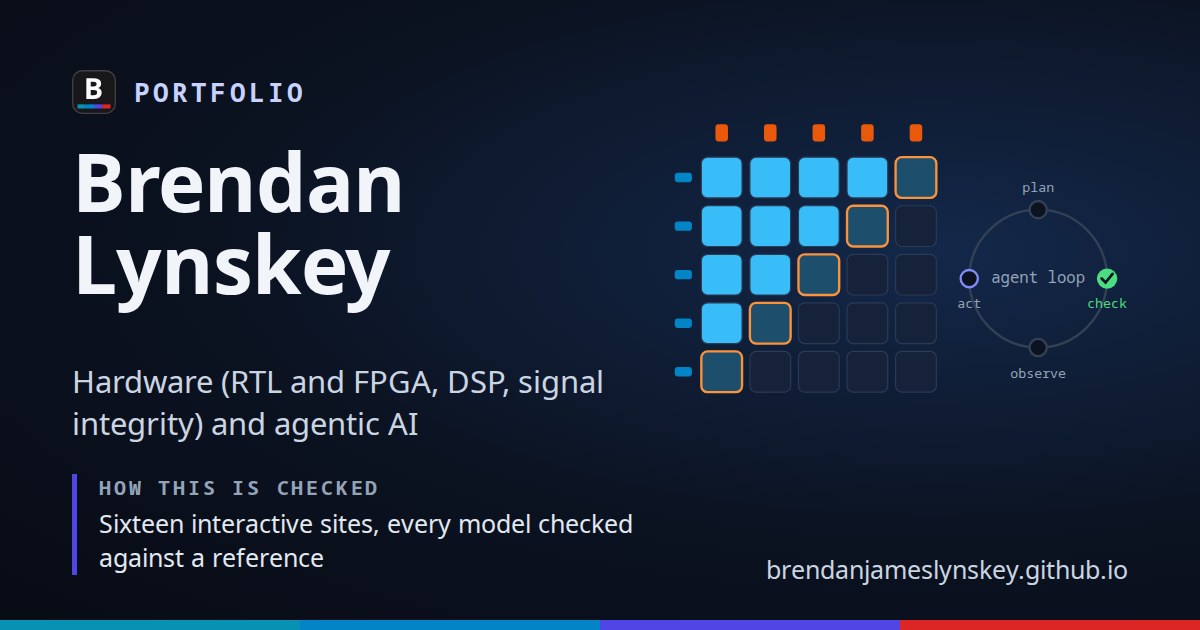
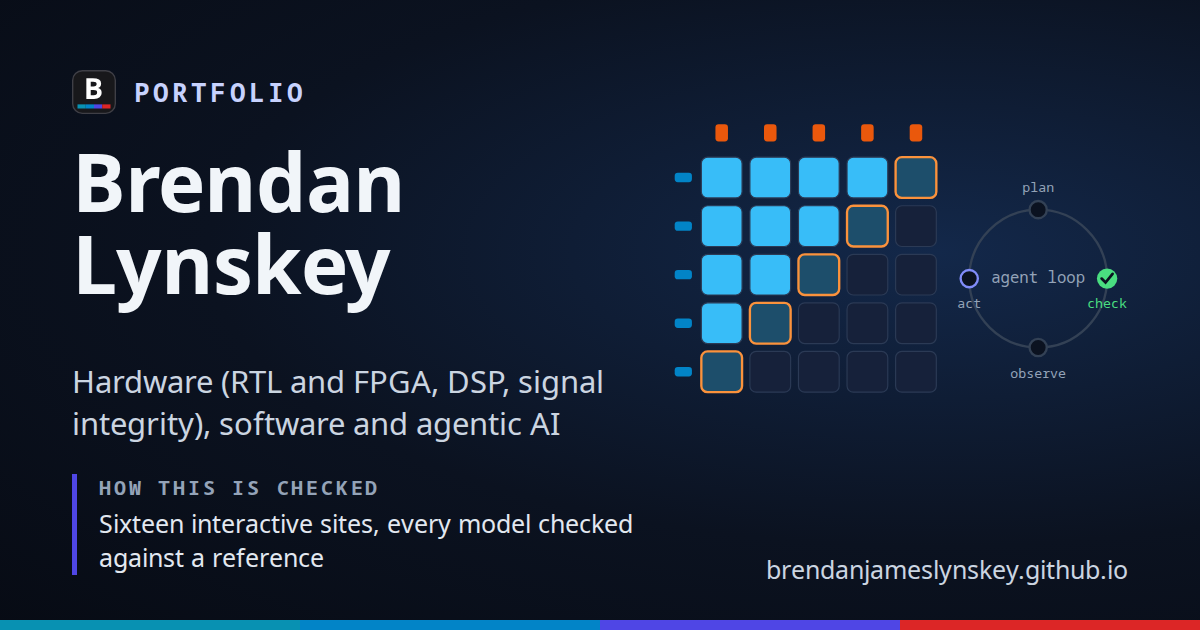
Social card, home title and metadata: hardware, software and agentic AI
The headline gained 'software'; the link-preview card (og.png), the page title, eyebrow,
description and og:image:alt now match it. The profile README is regenerated from
tools/profile_readme.py.

Changed region(s): [[0.1542, 0.6635, 0.4625, 0.6937]]

diff --git a/index.html b/index.html
@@ -3,8 +3,8 @@
 <head>
 <meta charset="utf-8">
 <meta name="viewport" content="width=device-width, initial-scale=1">
-<title>Brendan Lynskey: hardware and agentic AI</title>
-<meta name="description" content="Brendan Lynskey: a staff-level engineer across hardware (RTL and FPGA, DSP, signal integrity) and agentic AI. His CV, a chat agent about his career, and a portfolio of explainer sites and deck series built for his own learning.">
+<title>Brendan Lynskey: hardware, software and agentic AI</title>
+<meta name="description" content="Brendan Lynskey: a staff-level engineer across hardware (RTL and FPGA, DSP, signal integrity), software and agentic AI. His CV, a chat agent about his career, and a portfolio of explainer sites and deck series built for his own learning.">
 <link rel="canonical" href="https://brendan-lynskey.vercel.app/">
 <link rel="icon" href="/favicon.svg" type="image/svg+xml">
 <link rel="apple-touch-icon" href="/apple-touch-icon.png">
@@ -12,17 +12,17 @@
 <meta name="theme-color" content="#0a0a0a" media="(prefers-color-scheme: dark)">
 <meta property="og:type" content="website">
 <meta property="og:site_name" content="Brendan Lynskey">
-<meta property="og:title" content="Brendan Lynskey: hardware and agentic AI">
-<meta property="og:description" content="Brendan Lynskey: a staff-level engineer across hardware (RTL and FPGA, DSP, signal integrity) and agentic AI. His CV, a chat agent about his career, and a portfolio of explainer sites and deck series built for his own learning.">
+<meta property="og:title" content="Brendan Lynskey: hardware, software and agentic AI">
+<meta property="og:description" content="Brendan Lynskey: a staff-level engineer across hardware (RTL and FPGA, DSP, signal integrity), software and agentic AI. His CV, a chat agent about his career, and a portfolio of explainer sites and deck series built for his own learning.">
 <meta property="og:url" content="https://brendan-lynskey.vercel.app/">
 <meta property="og:image" content="https://brendan-lynskey.vercel.app/og.png">
 <meta property="og:image:width" content="1200">
 <meta property="og:image:height" content="630">
-<meta property="og:image:alt" content="Brendan Lynskey: hardware and agentic AI. Sixteen interactive sites, each checked against a reference.">
+<meta property="og:image:alt" content="Brendan Lynskey: hardware, software and agentic AI. Sixteen interactive sites, each checked against a reference.">
 <meta property="og:locale" content="en_GB">
 <meta name="twitter:card" content="summary_large_image">
-<meta name="twitter:title" content="Brendan Lynskey: hardware and agentic AI">
-<meta name="twitter:description" content="Brendan Lynskey: a staff-level engineer across hardware (RTL and FPGA, DSP, signal integrity) and agentic AI. His CV, a chat agent about his career, and a portfolio of explainer sites and deck series built for his own learning.">
+<meta name="twitter:title" content="Brendan Lynskey: hardware, software and agentic AI">
+<meta name="twitter:description" content="Brendan Lynskey: a staff-level engineer across hardware (RTL and FPGA, DSP, signal integrity), software and agentic AI. His CV, a chat agent about his career, and a portfolio of explainer sites and deck series built for his own learning.">
 <meta name="twitter:image" content="https://brendan-lynskey.vercel.app/og.png">
 <style>:root{color-scheme:light dark;
  --bg:#ffffff;--surface:#fafafa;--raised:#ffffff;--border:#e5e5e5;--text:#171717;--muted:#525252;--faint:#6b6b6b;
@@ -255,7 +255,7 @@ html.tw-open .tw-panel{visibility:visible;transform:none;transition:transform .3
 <section class="hero"><div class="wrap">
 <div class="hero-grid">
 <div class="intro">
-<p class="eyebrow">Hardware and agentic AI</p>
+<p class="eyebrow">Hardware, software and agentic AI</p>
 <h1>Brendan Lynskey</h1>
 <p class="lede">A staff-level engineer across hardware (RTL and FPGA, DSP, signal integrity), software and agentic AI.</p>
 </div>

diff --git a/checks/index.html b/checks/index.html
@@ -18,7 +18,7 @@
 <meta property="og:image" content="https://brendan-lynskey.vercel.app/og.png">
 <meta property="og:image:width" content="1200">
 <meta property="og:image:height" content="630">
-<meta property="og:image:alt" content="Brendan Lynskey: hardware and agentic AI. Sixteen interactive sites, each checked against a reference.">
+<meta property="og:image:alt" content="Brendan Lynskey: hardware, software and agentic AI. Sixteen interactive sites, each checked against a reference.">
 <meta property="og:locale" content="en_GB">
 <meta name="twitter:card" content="summary_large_image">
 <meta name="twitter:title" content="How I check the numbers · Brendan Lynskey">

diff --git a/404.html b/404.html
@@ -18,7 +18,7 @@
 <meta property="og:image" content="https://brendan-lynskey.vercel.app/og.png">
 <meta property="og:image:width" content="1200">
 <meta property="og:image:height" content="630">
-<meta property="og:image:alt" content="Brendan Lynskey: hardware and agentic AI. Sixteen interactive sites, each checked against a reference.">
+<meta property="og:image:alt" content="Brendan Lynskey: hardware, software and agentic AI. Sixteen interactive sites, each checked against a reference.">
 <meta property="og:locale" content="en_GB">
 <meta name="twitter:card" content="summary_large_image">
 <meta name="twitter:title" content="Page not found · Brendan Lynskey">

diff --git a/optalysys/index.html b/optalysys/index.html
@@ -19,7 +19,7 @@
 <meta property="og:image" content="https://brendan-lynskey.vercel.app/og.png">
 <meta property="og:image:width" content="1200">
 <meta property="og:image:height" content="630">
-<meta property="og:image:alt" content="Brendan Lynskey: hardware and agentic AI. Sixteen interactive sites, each checked against a reference.">
+<meta property="og:image:alt" content="Brendan Lynskey: hardware, software and agentic AI. Sixteen interactive sites, each checked against a reference.">
 <meta property="og:locale" content="en_GB">
 <meta name="twitter:card" content="summary_large_image">
 <meta name="twitter:title" content="Optalysys · Brendan Lynskey">

diff --git a/sites/index.html b/sites/index.html
@@ -18,7 +18,7 @@
 <meta property="og:image" content="https://brendan-lynskey.vercel.app/og.png">
 <meta property="og:image:width" content="1200">
 <meta property="og:image:height" content="630">
-<meta property="og:image:alt" content="Brendan Lynskey: hardware and agentic AI. Sixteen interactive sites, each checked against a reference.">
+<meta property="og:image:alt" content="Brendan Lynskey: hardware, software and agentic AI. Sixteen interactive sites, each checked against a reference.">
 <meta property="og:locale" content="en_GB">
 <meta name="twitter:card" content="summary_large_image">
 <meta name="twitter:title" content="Portfolio · Brendan Lynskey">

diff --git a/library/index.html b/library/index.html
@@ -18,7 +18,7 @@
 <meta property="og:image" content="https://brendan-lynskey.vercel.app/og.png">
 <meta property="og:image:width" content="1200">
 <meta property="og:image:height" content="630">
-<meta property="og:image:alt" content="Brendan Lynskey: hardware and agentic AI. Sixteen interactive sites, each checked against a reference.">
+<meta property="og:image:alt" content="Brendan Lynskey: hardware, software and agentic AI. Sixteen interactive sites, each checked against a reference.">
 <meta property="og:locale" content="en_GB">
 <meta name="twitter:card" content="summary_large_image">
 <meta name="twitter:title" content="Library · Brendan Lynskey">

diff --git a/cv/index.html b/cv/index.html
@@ -18,7 +18,7 @@
 <meta property="og:image" content="https://brendan-lynskey.vercel.app/og.png">
 <meta property="og:image:width" content="1200">
 <meta property="og:image:height" content="630">
-<meta property="og:image:alt" content="Brendan Lynskey: hardware and agentic AI. Sixteen interactive sites, each checked against a reference.">
+<meta property="og:image:alt" content="Brendan Lynskey: hardware, software and agentic AI. Sixteen interactive sites, each checked against a reference.">
 <meta property="og:locale" content="en_GB">
 <meta name="twitter:card" content="summary_large_image">
 <meta name="twitter:title" content="Brendan Lynskey: CV">

diff --git a/tools/build.py b/tools/build.py
@@ -324,7 +324,7 @@ def head(title, description, path, extra="", noindex=False, twin=False):
 <meta property="og:image" content="{BASE}/og.png">
 <meta property="og:image:width" content="1200">
 <meta property="og:image:height" content="630">
-<meta property="og:image:alt" content="{NAME}: hardware and agentic AI. Sixteen interactive sites, each checked against a reference.">
+<meta property="og:image:alt" content="{NAME}: hardware, software and agentic AI. Sixteen interactive sites, each checked against a reference.">
 <meta property="og:locale" content="en_GB">
 <meta name="twitter:card" content="summary_large_image">
 <meta name="twitter:title" content="{e(title)}">
@@ -480,14 +480,14 @@ def home():
     n_sites = sum(len(sites_in(g["key"])) for g in DATA["groups"])
     assert n_sites == 16, n_sites
     llms = COUNTS["LLMs"]
-    desc = ("Brendan Lynskey: a staff-level engineer across hardware (RTL and FPGA, DSP, signal integrity) "
-            "and agentic AI. His CV, a chat agent about his career, and a portfolio of explainer sites and deck "
+    desc = ("Brendan Lynskey: a staff-level engineer across hardware (RTL and FPGA, DSP, signal integrity), "
+            "software and agentic AI. His CV, a chat agent about his career, and a portfolio of explainer sites and deck "
             "series built for his own learning.")
-    return head(f"{NAME}: hardware and agentic AI", desc, "/", OLD_ANCHORS, twin=True) + f"""<main id="main">
+    return head(f"{NAME}: hardware, software and agentic AI", desc, "/", OLD_ANCHORS, twin=True) + f"""<main id="main">
 <section class="hero"><div class="wrap">
 <div class="hero-grid">
 <div class="intro">
-<p class="eyebrow">Hardware and agentic AI</p>
+<p class="eyebrow">Hardware, software and agentic AI</p>
 <h1>{NAME}</h1>
 <p class="lede">A staff-level engineer across hardware (RTL and FPGA, DSP, signal integrity), software and agentic AI.</p>
 </div>

diff --git a/tools/profile_readme.py b/tools/profile_readme.py
@@ -58,8 +58,8 @@ def main(out):
     rows = "\n".join(f"| {a} | {b} | {c} |" for a, b, c in featured)
     md = f"""# Brendan Lynskey
 
-A staff-level engineer across hardware (RTL and FPGA, DSP, signal integrity) and agentic AI. More than 25 years in
-hardware, and I write the software too.
+A staff-level engineer across hardware (RTL and FPGA, DSP, signal integrity), software and agentic AI. More than 25
+years in hardware; for the last two years, almost entirely software (agentic AI in Python).
 
 **[Home →]({HOME}/)** · [Portfolio]({HOME}/sites/) · [CV]({HOME}/cv/) · [How I check the numbers]({HOME}/checks/) · [Hardware, DSP and signal integrity]({HOME}/sites/#hardware)
 

diff --git a/tools/brand.py b/tools/brand.py
@@ -86,7 +86,7 @@ h1{{position:absolute;left:72px;top:140px;margin:0;font-size:80px;line-height:1.
 </style></head><body>
 <div class="k"><img src="file://{ROOT}/favicon.svg">PORTFOLIO</div>
 <h1>Brendan Lynskey</h1>
-<p class="l">Hardware (RTL and FPGA, DSP, signal integrity) and agentic AI</p>
+<p class="l">Hardware (RTL and FPGA, DSP, signal integrity), software and agentic AI</p>
 <div class="c"><b>HOW THIS IS CHECKED</b><span>Sixteen interactive sites, every model checked against a reference</span></div>
 <div class="g">{grid_svg()}</div>
 <div class="u">brendanjameslynskey.github.io</div>
